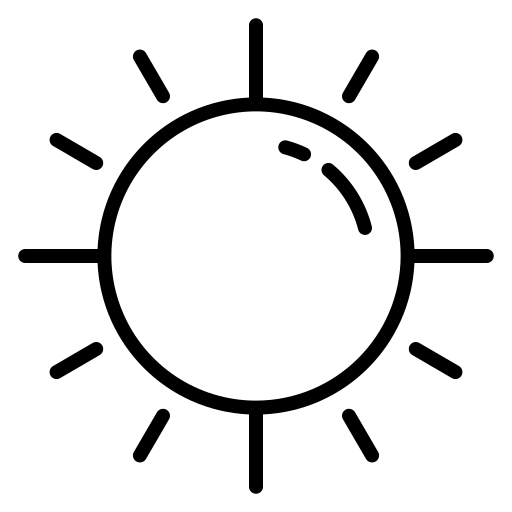
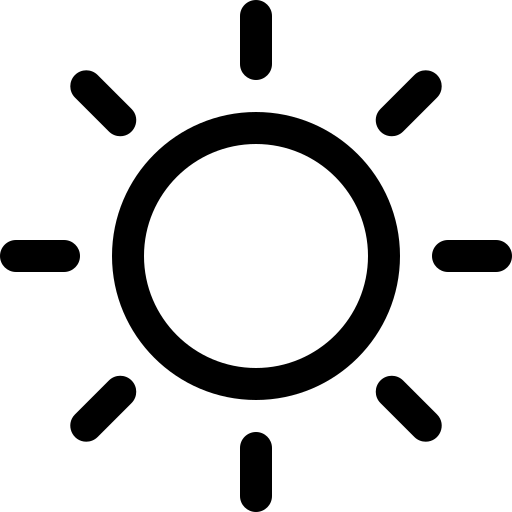
2022-11-25 1. 날씨 아이콘 변경 2. 날씨 표현 완성 3. 전체 레이아웃 수정 4. todo-list : 체크 시 localStorage에도 반영되도록 해보자

Changed region(s): [[0.0, 0.0, 1.0, 1.0]]

diff --git a/js/weather.js b/js/weather.js
@@ -1,4 +1,6 @@
 const API_KEY = "370a98e4f7ffa8b95366d79932d3c782";
+const weather = document.getElementById("weather");
+const infos = document.querySelector("#weather-infos");
 
 function getWeatherIcon(apiIcon) {
     if (apiIcon === "01d" || apiIcon === "01n") {
@@ -13,21 +15,46 @@ function onGeoOk(position) {
     const lon = position.coords.longitude;
     const url = `https://api.openweathermap.org/data/2.5/weather?lat=${lat}&lon=${lon}&appid=${API_KEY}&units=metric`;
     fetch(url).then(response => response.json()).then(data => {
-        const weatherIcon = document.querySelector("#weather img");
-        const weatherName = document.querySelector("#weather-name");
-        const weatherTemp = document.querySelector("#weather-temp");
-        const city = document.querySelector("#weather-city");
-        const temp = parseFloat(data.main.temp);
-        
-        weatherIcon.src = getWeatherIcon(data.weather[0].icon);
+        const weatherIcon = document.createElement("img");
+        weatherIcon.src = `./img/weather/${data.weather[0].icon}.png`;
+        weather.insertBefore(weatherIcon, weather.firstChild);
+
+        const weatherName = document.createElement("li");
+        weatherName.id = "weather-name";
         weatherName.innerText = `${data.weather[0].main}`;
-        weatherTemp.innerText = `${Math.round(temp)} ℃`;
-        city.innerText = data.name;
+        // weatherName.classList.add(HIDDEN_CLASSNAME);
+        
+        const weatherTemp = document.createElement("li");
+        weatherTemp.id = "weather-temp";
+        weatherTemp.innerText = `${(data.main.temp).toFixed(1)} ℃`;
+        // weatherTemp.classList.add(HIDDEN_CLASSNAME);
+
+        const weatherCity = document.createElement("li");
+        weatherCity.id = "weather-city";
+        weatherCity.innerText = data.name;
+        // weatherCity.classList.add(HIDDEN_CLASSNAME);
+        
+        infos.appendChild(weatherName);
+        infos.appendChild(weatherTemp);
+        infos.appendChild(weatherCity);
     });
 }
 
 function onGeoErr() {
-    // alert("Can't find you. No weather for you.");
+    console.log("Get User's GeoLocation Failed.");
 }
 
 navigator.geolocation.getCurrentPosition(onGeoOk, onGeoErr);
+
+weather.addEventListener(COMMON_EVENTS.MOUSE_ENTER, item => {
+    const icon = item.target.firstChild;
+    icon.classList.add(HIDDEN_CLASSNAME);
+
+    infos.classList.remove(HIDDEN_CLASSNAME);
+});
+weather.addEventListener(COMMON_EVENTS.MOUSE_LEAVE, item => {
+    const icon = item.target.firstChild;
+    icon.classList.remove(HIDDEN_CLASSNAME);
+
+    infos.classList.add(HIDDEN_CLASSNAME);
+});

diff --git a/css/weather.css b/css/weather.css
@@ -4,21 +4,36 @@
     top: 1.5em;
     color: rgba(245, 245, 245, 0.8);
     font-size: 1.2em;
-    width: 5em;
-    display: flex;
-    flex-direction: column;
-    justify-content: center;
-    align-items: center;
+    width: 6em;
+    height: 4em;
+    text-align: center;
 }
 #weather img {
-    margin-bottom: 0.6em;
     width: 2em;
-    height: 2em;
-    filter: invert(100%) sepia(0%) saturate(259%) hue-rotate(119deg) brightness(109%) contrast(101%) opacity(80%);
+    padding-top: 1em;
+    padding-bottom: 1em;
+    filter: invert(100%) sepia(0%) saturate(259%) hue-rotate(119deg) brightness(109%) contrast(101%) opacity(60%);
 }
-/* #weather-name {
+
+#weather-infos {
+    display: flex;
+    flex-direction: column;
+    position: absolute;
+    top: 0;
+    left: 0;
+    width: inherit;
+    height: inherit;
+    padding: 0;
+    margin: 0;
+    list-style: none;
 }
-#weather-temp {
+
+#weather-infos li {
+    flex: 1 1 0;
+    text-align: center;
 }
-#weather-city {
-} */
+
+#weather-name {
+    font-size: larger;
+    font-weight: bolder;
+}

diff --git a/js/todo.js b/js/todo.js
@@ -21,6 +21,7 @@ function paintTodo(newTodoObj) {
 
     const span = document.createElement("span");
     span.innerText = newTodoObj.text;
+    span.addEventListener(COMMON_EVENTS.CLICK, check);
 
     const button = document.createElement("button");
     button.innerText = "✖";
@@ -59,7 +60,3 @@ if (savedTodos !== null) {
     todos = parsedTodos;
     parsedTodos.forEach(paintTodo);
 }
-
-const todoItems = todoList.childNodes;
-
-todoItems.forEach(item => item.addEventListener(COMMON_EVENTS.CLICK, check));

diff --git a/index.html b/index.html
@@ -52,10 +52,7 @@
     </div>
 
     <div id="weather">
-        <img alt=""></img>
-        <span id="weather-name"></span>
-        <span id="weather-temp"></span>
-        <span id="weather-city"></span>
+        <ul id="weather-infos" class="hidden"></ul>
     </div>
 
     <script src="js/common.js"></script>

diff --git a/css/todo.css b/css/todo.css
@@ -71,5 +71,6 @@
 
 .completed-todo {
     text-decoration: line-through;
-    text-decoration-color: rgba(245, 245, 245, 0.7);
+    text-decoration-color: rgba(245, 245, 245, 0,7);
+    text-decoration-style: double;
 }

diff --git a/css/menu.css b/css/menu.css
@@ -4,8 +4,8 @@
     border-bottom: 2px solid whitesmoke;
     width: 1.8em;
     height: 1.5em;
-    left: 1.5em;
-    top: 1.5em;
+    left: 3.5em;
+    top: 3.5em;
 }
 
 #hamburger {
